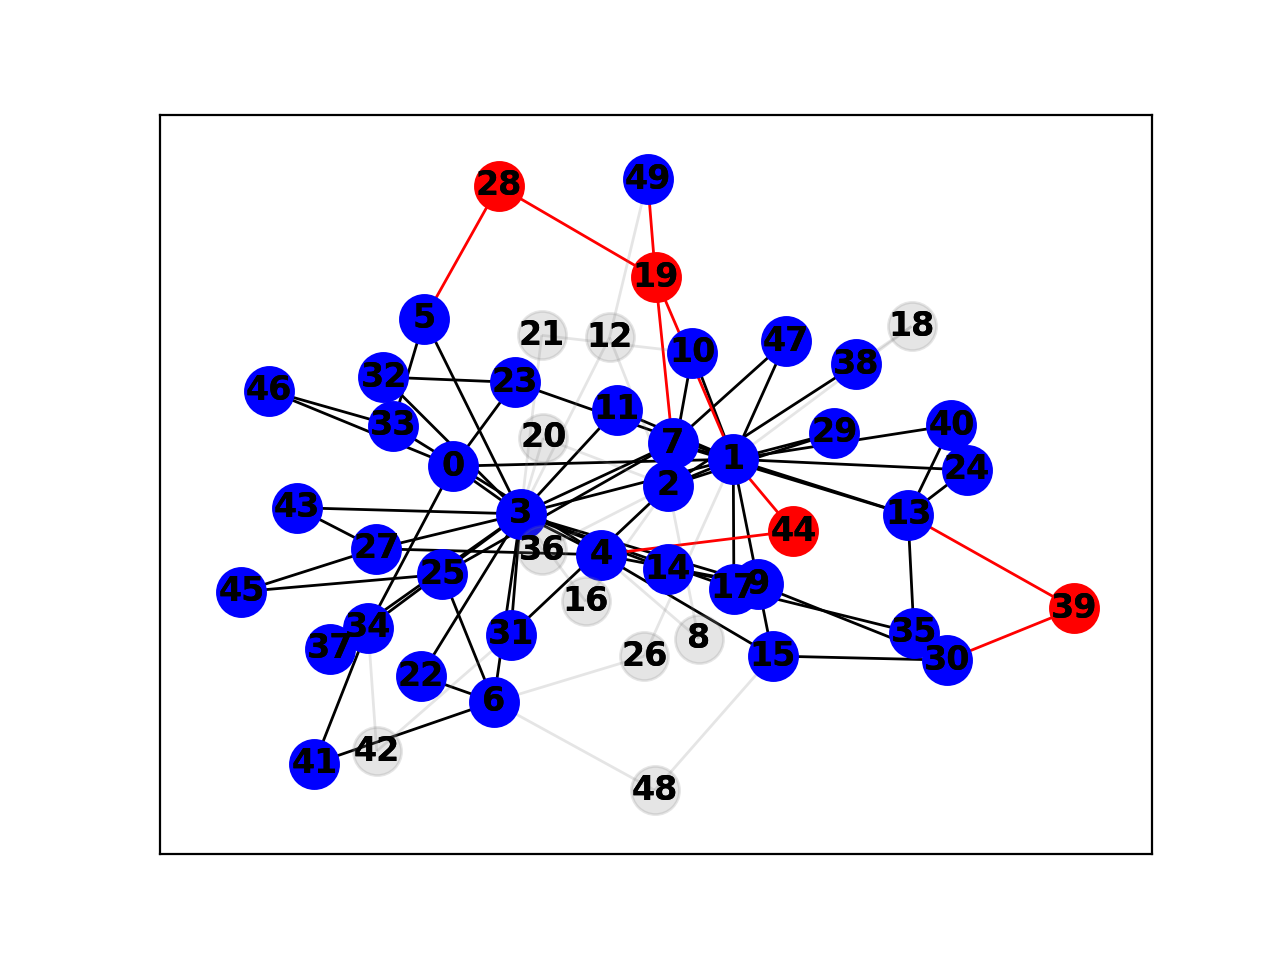
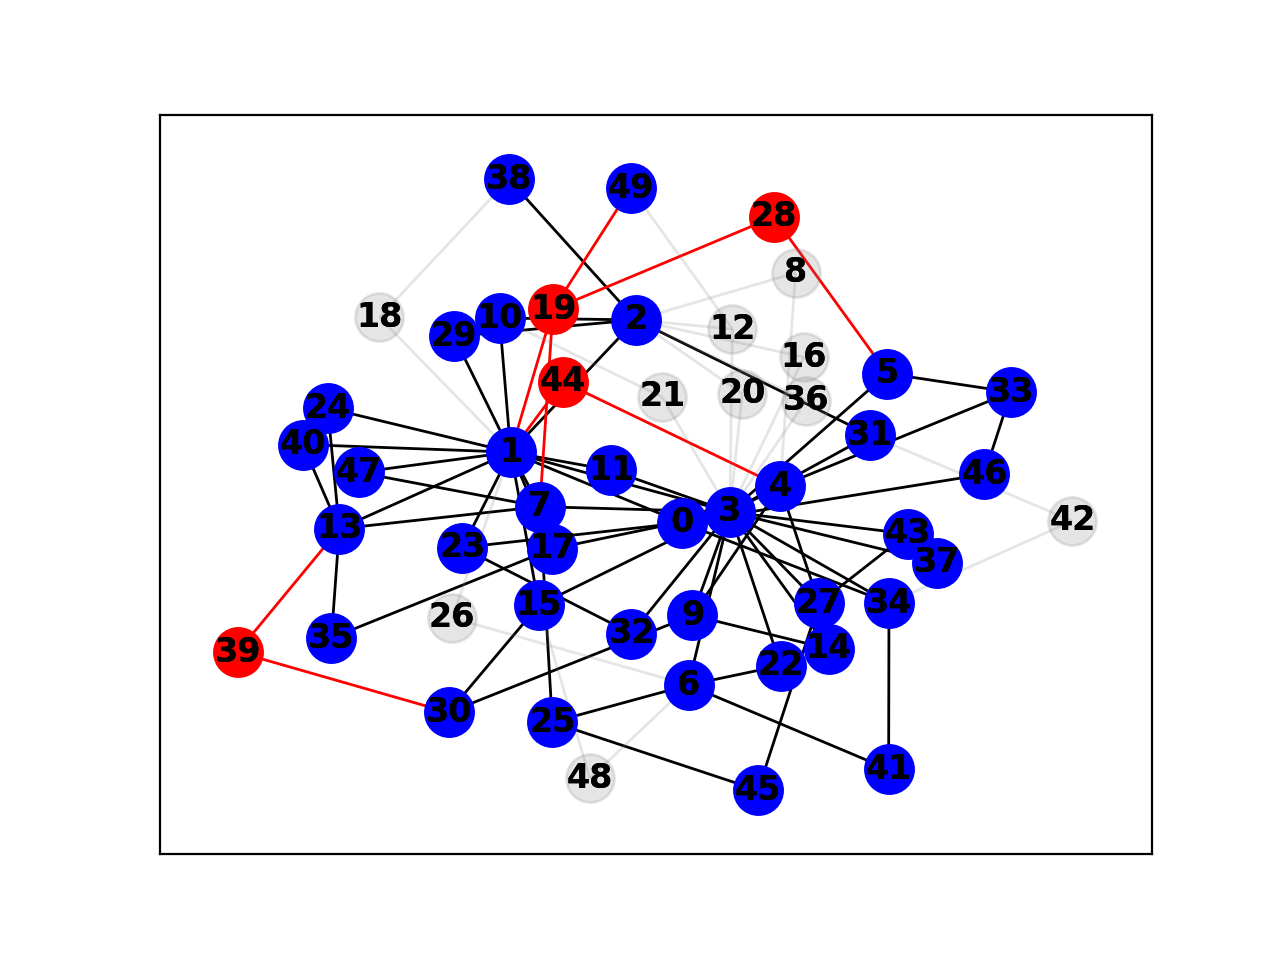
Animation correction

diff --git a/Animation/anim.py b/Animation/anim.py
@@ -86,7 +86,7 @@ else:
 fig_it = 1
 
 fig = plt.figure()
-nx.draw_networkx(G, pos=nx.spring_layout(G, seed=10), nodelist = untouched_vertices, node_color = 'blue', edgelist = untouched_edges, edge_color = 'black', alpha = 1.0, with_labels=True, font_weight='bold')
+nx.draw_networkx(G, pos=nx.kamada_kawai_layout(G), nodelist = untouched_vertices, node_color = 'blue', edgelist = untouched_edges, edge_color = 'black', alpha = 1.0, with_labels=True, font_weight='bold')
 plt.show()
 fig_name = name + "_%i.png" % fig_it
 fig.savefig(fig_name + '', format='png')
@@ -104,9 +104,9 @@ for i in range(it+1):
 			marked_edges.append((e1, e2))
 
 	fig = plt.figure()
-	nx.draw_networkx(G, pos=nx.spring_layout(G, seed=10), nodelist = untouched_vertices, node_color = 'blue', edgelist = untouched_edges, edge_color = 'black', alpha = 1.0, with_labels=True, font_weight='bold')
-	nx.draw_networkx(G, pos=nx.spring_layout(G, seed=10), nodelist = marked_vertices, node_color = 'red', edgelist = marked_edges, edge_color = 'red', alpha = 1.0, with_labels=True, font_weight='bold')
-	nx.draw_networkx(G, pos=nx.spring_layout(G, seed=10), nodelist = deleted_vertices, node_color = 'grey', edgelist = deleted_edges, edge_color = 'grey', alpha = 0.2, with_labels=True, font_weight='bold')
+	nx.draw_networkx(G, pos=nx.kamada_kawai_layout(G), nodelist = untouched_vertices, node_color = 'blue', edgelist = untouched_edges, edge_color = 'black', alpha = 1.0, with_labels=True, font_weight='bold')
+	nx.draw_networkx(G, pos=nx.kamada_kawai_layout(G), nodelist = marked_vertices, node_color = 'red', edgelist = marked_edges, edge_color = 'red', alpha = 1.0, with_labels=True, font_weight='bold')
+	nx.draw_networkx(G, pos=nx.kamada_kawai_layout(G), nodelist = deleted_vertices, node_color = 'grey', edgelist = deleted_edges, edge_color = 'grey', alpha = 0.2, with_labels=True, font_weight='bold')
 	plt.show()
 	fig_name = name + "_%i.png" % fig_it
 	fig.savefig(fig_name, format='png')
@@ -123,8 +123,8 @@ for i in range(it+1):
 	marked_edges.clear()
 
 	fig = plt.figure()
-	nx.draw_networkx(G, pos=nx.spring_layout(G, seed=10), nodelist = untouched_vertices, node_color = 'blue', edgelist = untouched_edges, edge_color = 'black', alpha = 1.0, with_labels=True, font_weight='bold')
-	nx.draw_networkx(G, pos=nx.spring_layout(G, seed=10), nodelist = deleted_vertices, node_color = 'grey', edgelist = deleted_edges, edge_color = 'grey', alpha = 0.2, with_labels=True, font_weight='bold')
+	nx.draw_networkx(G, pos=nx.kamada_kawai_layout(G), nodelist = untouched_vertices, node_color = 'blue', edgelist = untouched_edges, edge_color = 'black', alpha = 1.0, with_labels=True, font_weight='bold')
+	nx.draw_networkx(G, pos=nx.kamada_kawai_layout(G), nodelist = deleted_vertices, node_color = 'grey', edgelist = deleted_edges, edge_color = 'grey', alpha = 0.2, with_labels=True, font_weight='bold')
 	plt.show()
 	fig_name = name + "_%i.png" % fig_it
 	fig.savefig(fig_name, format='png')
